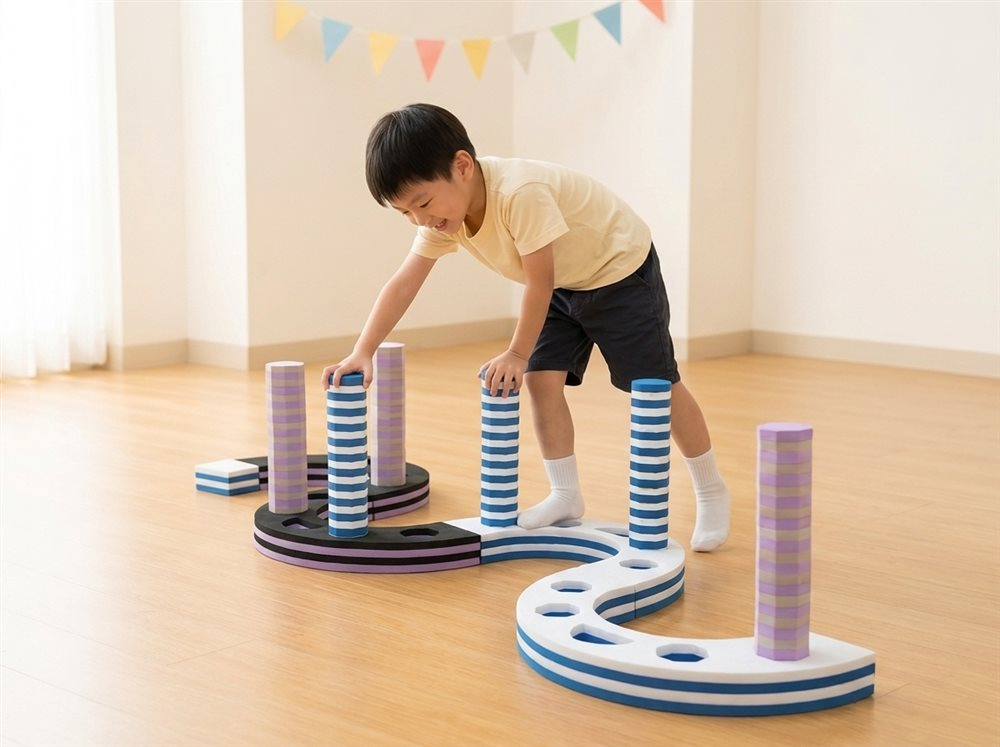
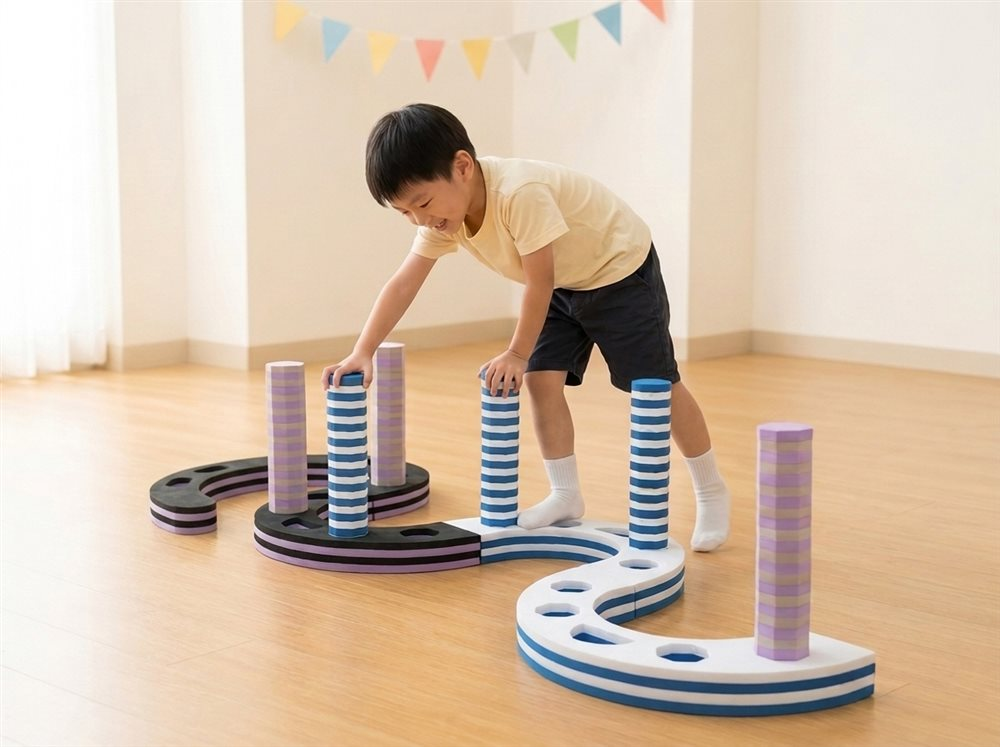
彩虹梯玩法卡改用寫實示意圖；立柱森林（繞柱子）圖更新
Claude-Session: https://claude.ai/code/session_01XnjY5QgSb1GcDy1UFgeKMx

Changed region(s): [[0.124, 0.6158, 0.279, 0.7697]]

diff --git a/assets/plays.js b/assets/plays.js
@@ -13,7 +13,7 @@ const PLAYS = {
       steps: ["拱片立起放在軟墊上，前後各留 2 公尺。", "孩子排成一列，輪到的人趴下，手腳並用爬過山洞。", "爬出去後繞回隊伍最後面。"],
       safety: "前一位完全爬出去，下一位才出發；頭低低的，不要用撞的。",
       easier: "小幼可以用走的彎腰鑽過。", harder: "中大改成倒退爬，或爬過去時不能碰到拱片。" },
-    { name: "彩虹梯", photo: "rock/a1.png", pos: "center 35%", type: "排隊", age: ["中大"], limit: [], mode: "ladder",
+    { name: "彩虹梯", photo: "rock/real-6-ladder.jpg", pos: "center 55%", type: "排隊", age: ["中大"], limit: [], mode: "ladder",
       skills: ["動態平衡", "下肢控制"], props: [],
       intro: "兩片拱片接上五根橫桿，變成一座彎彎的梯子，踩著橫桿走過去。",
       steps: ["組成雙拱加五根橫桿，放在軟墊中間。", "老師站在旁邊牽手，孩子一格一格踩橫桿走上去、走下來。", "熟練後放開手，自己走。"],
